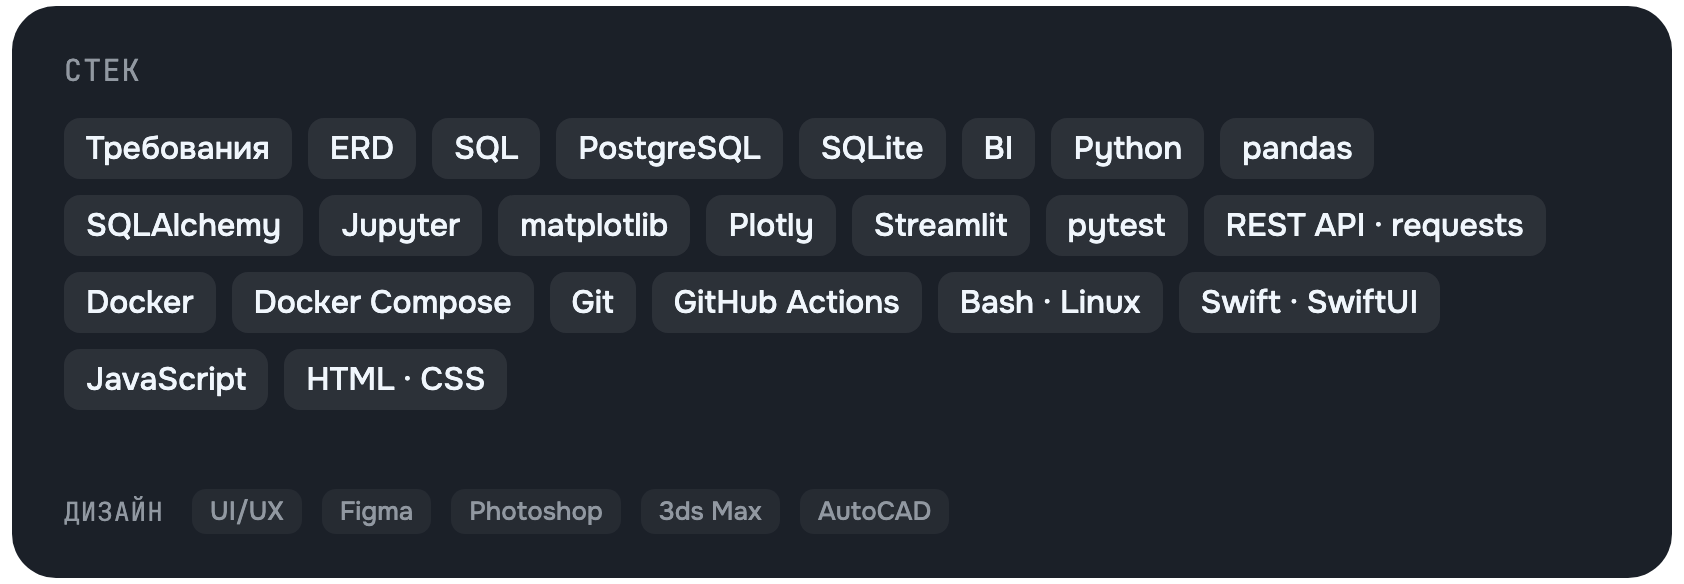
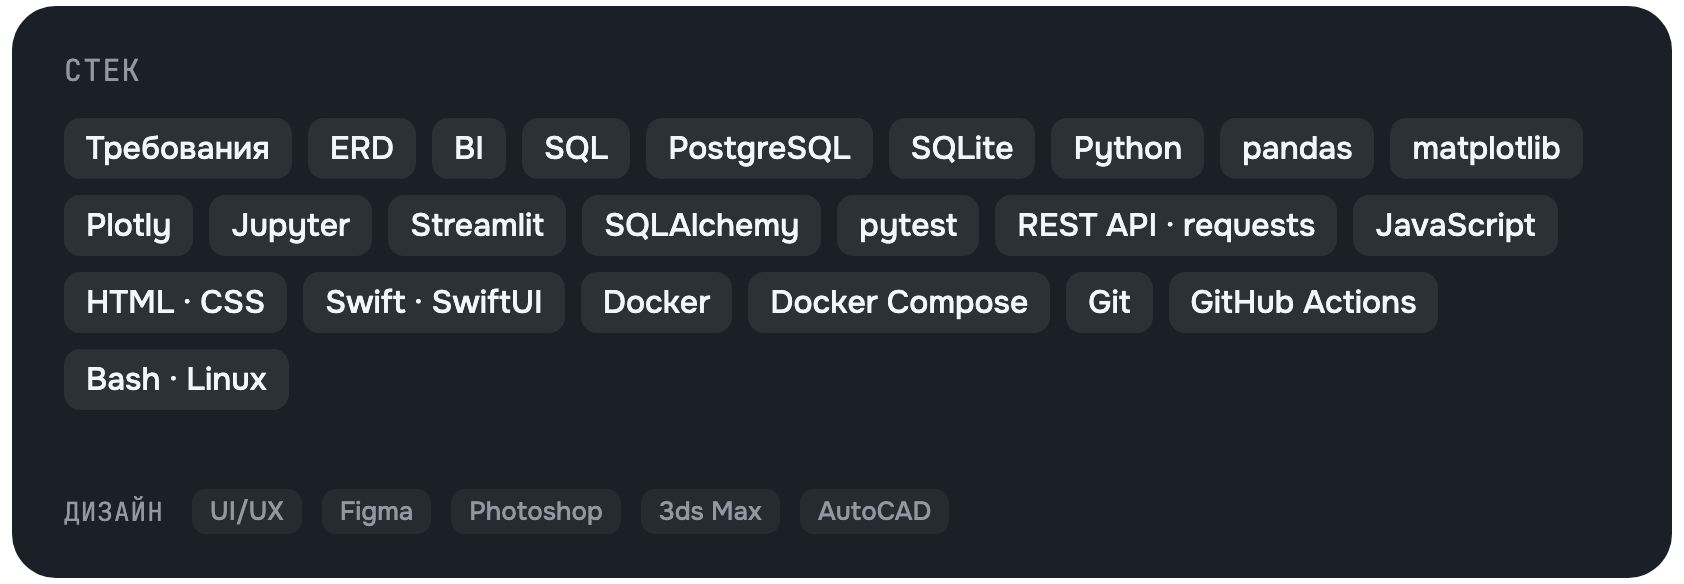
Стек по группам: анализ, SQL, Python и библиотеки, языки, инструменты

diff --git a/README.md b/README.md
@@ -1,4 +1,4 @@
-<p align="center"><a href="https://github.com/Squidi9QT"><picture><source media="(prefers-color-scheme: dark)" srcset="assets/hero-dark.png?v=e2e23ae5"><img src="assets/hero-light.png?v=defd537f" width="50.0%" alt="Squidi9QT: дизайнер, который промтит код; слово «промтит» перечёркнуто лентой с надписью «пишет». Теги: UI/UX, Python, SQL, Claude"></picture></a><a href="https://github.com/Squidi9QT/KuBoring"><img src="assets/kuboring-light.png?v=d8d509bb" width="50.0%" alt="KuBoring: шторка у выреза для macOS"></a><br><a href="https://github.com/Squidi9QT/KubPlay"><img src="assets/kubplay-light.png?v=23cc0988" width="33.37%" alt="KubPlay: игра, которая учит Python и SQL"></a><a href="https://github.com/Squidi9QT/BrandHub"><img src="assets/brandhub-light.png?v=998637bb" width="33.25%" alt="BrandHub: аналитика рекламы в детском парке"></a><a href="https://github.com/Squidi9QT/job-analysis"><img src="assets/jobs-light.png?v=2404b8eb" width="33.37%" alt="job-analysis: вакансии hh.ru с историей SCD2"></a><br><a href="https://github.com/Squidi9QT/Glassfox"><img src="assets/glassfox-light.png?v=f52dc76b" width="37.05%" alt="Glassfox: Firefox в стиле Apple"></a><a href="https://github.com/Squidi9QT/Menu"><img src="assets/menu-light.png?v=2169a849" width="32.54%" alt="Menu: меню для Claude Code"></a><a href="https://github.com/Squidi9QT/airport_simulation"><img src="assets/airport-light.png?v=d3840ccc" width="30.4%" alt="airport_simulation: очередь в аэропорту на simpy"></a><br><a href="https://github.com/Squidi9QT"><picture><source media="(prefers-color-scheme: dark)" srcset="assets/stack-dark.png?v=2af14520"><img src="assets/stack-light.png?v=0a5ed7dc" width="100.0%" alt="Стек: требования, ERD, BI, Python, pandas, SQL, PostgreSQL, SQLite, SQLAlchemy, Jupyter, matplotlib, Plotly, Streamlit, pytest, REST API, Docker, Docker Compose, Git, GitHub Actions, Bash, Swift, JavaScript, HTML и CSS. Дизайн: UI/UX, Figma, Photoshop, 3ds Max, AutoCAD"></picture></a><br><a href="https://t.me/Squidi_t9"><img src="assets/telegram-light.png?v=72c6a212" width="33.37%" alt="Написать в Telegram: @Squidi_t9"></a><a href="mailto:kub.idrissov@gmail.com"><picture><source media="(prefers-color-scheme: dark)" srcset="assets/email-dark.png?v=da722ccb"><img src="assets/email-light.png?v=ade13816" width="33.25%" alt="Почта: kub.idrissov@gmail.com"></picture></a><a href="https://github.com/Squidi9QT"><picture><source media="(prefers-color-scheme: dark)" srcset="assets/place-dark.png?v=e5874503"><img src="assets/place-light.png?v=04e9c78a" width="33.37%" alt="Томск (UTC+7) и Алматы (UTC+5)"></picture></a><br><a href="https://github.com/Squidi9QT"><picture><source media="(prefers-color-scheme: dark)" srcset="assets/signature-dark.png?v=4afae547"><img src="assets/signature-light.png?v=958c6e33" width="100.0%" alt="Squidi9QT: дизайн, данные, код. Томск и Алматы"></picture></a></p>
+<p align="center"><a href="https://github.com/Squidi9QT"><picture><source media="(prefers-color-scheme: dark)" srcset="assets/hero-dark.png?v=e2e23ae5"><img src="assets/hero-light.png?v=defd537f" width="50.0%" alt="Squidi9QT: дизайнер, который промтит код; слово «промтит» перечёркнуто лентой с надписью «пишет». Теги: UI/UX, Python, SQL, Claude"></picture></a><a href="https://github.com/Squidi9QT/KuBoring"><img src="assets/kuboring-light.png?v=d8d509bb" width="50.0%" alt="KuBoring: шторка у выреза для macOS"></a><br><a href="https://github.com/Squidi9QT/KubPlay"><img src="assets/kubplay-light.png?v=23cc0988" width="33.37%" alt="KubPlay: игра, которая учит Python и SQL"></a><a href="https://github.com/Squidi9QT/BrandHub"><img src="assets/brandhub-light.png?v=998637bb" width="33.25%" alt="BrandHub: аналитика рекламы в детском парке"></a><a href="https://github.com/Squidi9QT/job-analysis"><img src="assets/jobs-light.png?v=2404b8eb" width="33.37%" alt="job-analysis: вакансии hh.ru с историей SCD2"></a><br><a href="https://github.com/Squidi9QT/Glassfox"><img src="assets/glassfox-light.png?v=f52dc76b" width="37.05%" alt="Glassfox: Firefox в стиле Apple"></a><a href="https://github.com/Squidi9QT/Menu"><img src="assets/menu-light.png?v=2169a849" width="32.54%" alt="Menu: меню для Claude Code"></a><a href="https://github.com/Squidi9QT/airport_simulation"><img src="assets/airport-light.png?v=d3840ccc" width="30.4%" alt="airport_simulation: очередь в аэропорту на simpy"></a><br><a href="https://github.com/Squidi9QT"><picture><source media="(prefers-color-scheme: dark)" srcset="assets/stack-dark.png?v=bc34abe0"><img src="assets/stack-light.png?v=6736dd9a" width="100.0%" alt="Стек: требования, ERD, BI, Python, pandas, SQL, PostgreSQL, SQLite, SQLAlchemy, Jupyter, matplotlib, Plotly, Streamlit, pytest, REST API, Docker, Docker Compose, Git, GitHub Actions, Bash, Swift, JavaScript, HTML и CSS. Дизайн: UI/UX, Figma, Photoshop, 3ds Max, AutoCAD"></picture></a><br><a href="https://t.me/Squidi_t9"><img src="assets/telegram-light.png?v=72c6a212" width="33.37%" alt="Написать в Telegram: @Squidi_t9"></a><a href="mailto:kub.idrissov@gmail.com"><picture><source media="(prefers-color-scheme: dark)" srcset="assets/email-dark.png?v=da722ccb"><img src="assets/email-light.png?v=ade13816" width="33.25%" alt="Почта: kub.idrissov@gmail.com"></picture></a><a href="https://github.com/Squidi9QT"><picture><source media="(prefers-color-scheme: dark)" srcset="assets/place-dark.png?v=e5874503"><img src="assets/place-light.png?v=04e9c78a" width="33.37%" alt="Томск (UTC+7) и Алматы (UTC+5)"></picture></a><br><a href="https://github.com/Squidi9QT"><picture><source media="(prefers-color-scheme: dark)" srcset="assets/signature-dark.png?v=4afae547"><img src="assets/signature-light.png?v=958c6e33" width="100.0%" alt="Squidi9QT: дизайн, данные, код. Томск и Алматы"></picture></a></p>
 
 ## Кейсы
 
